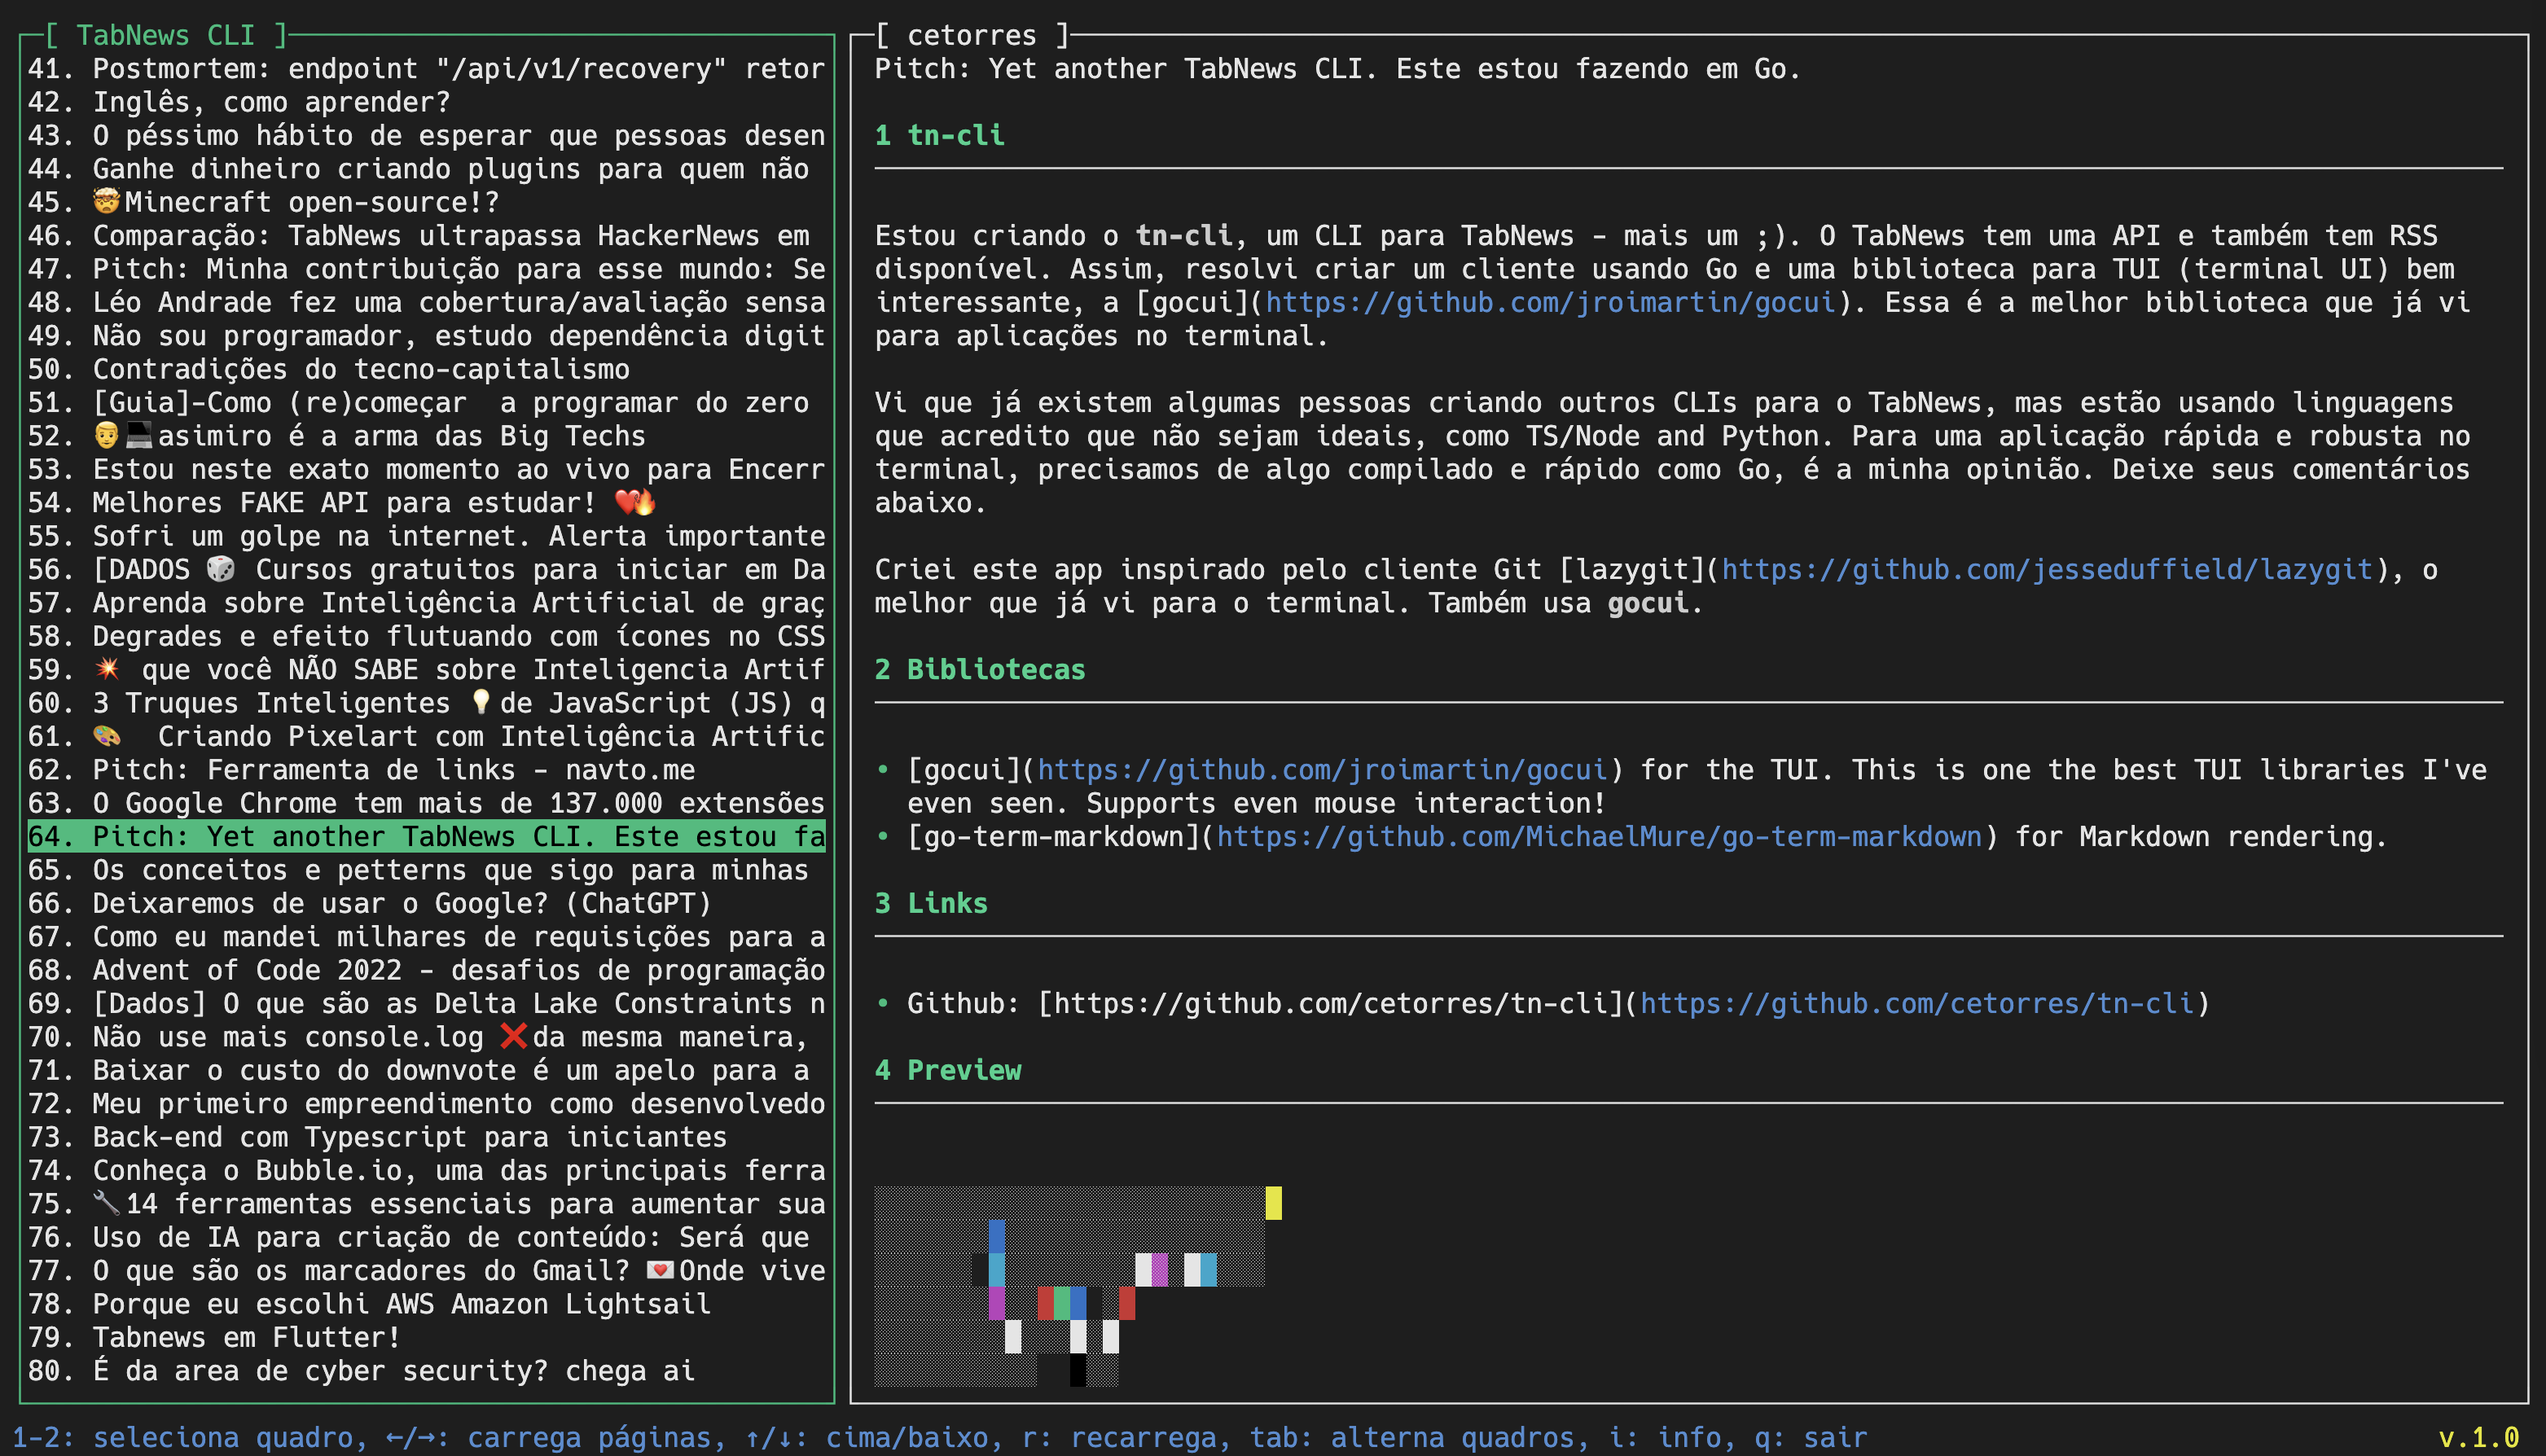
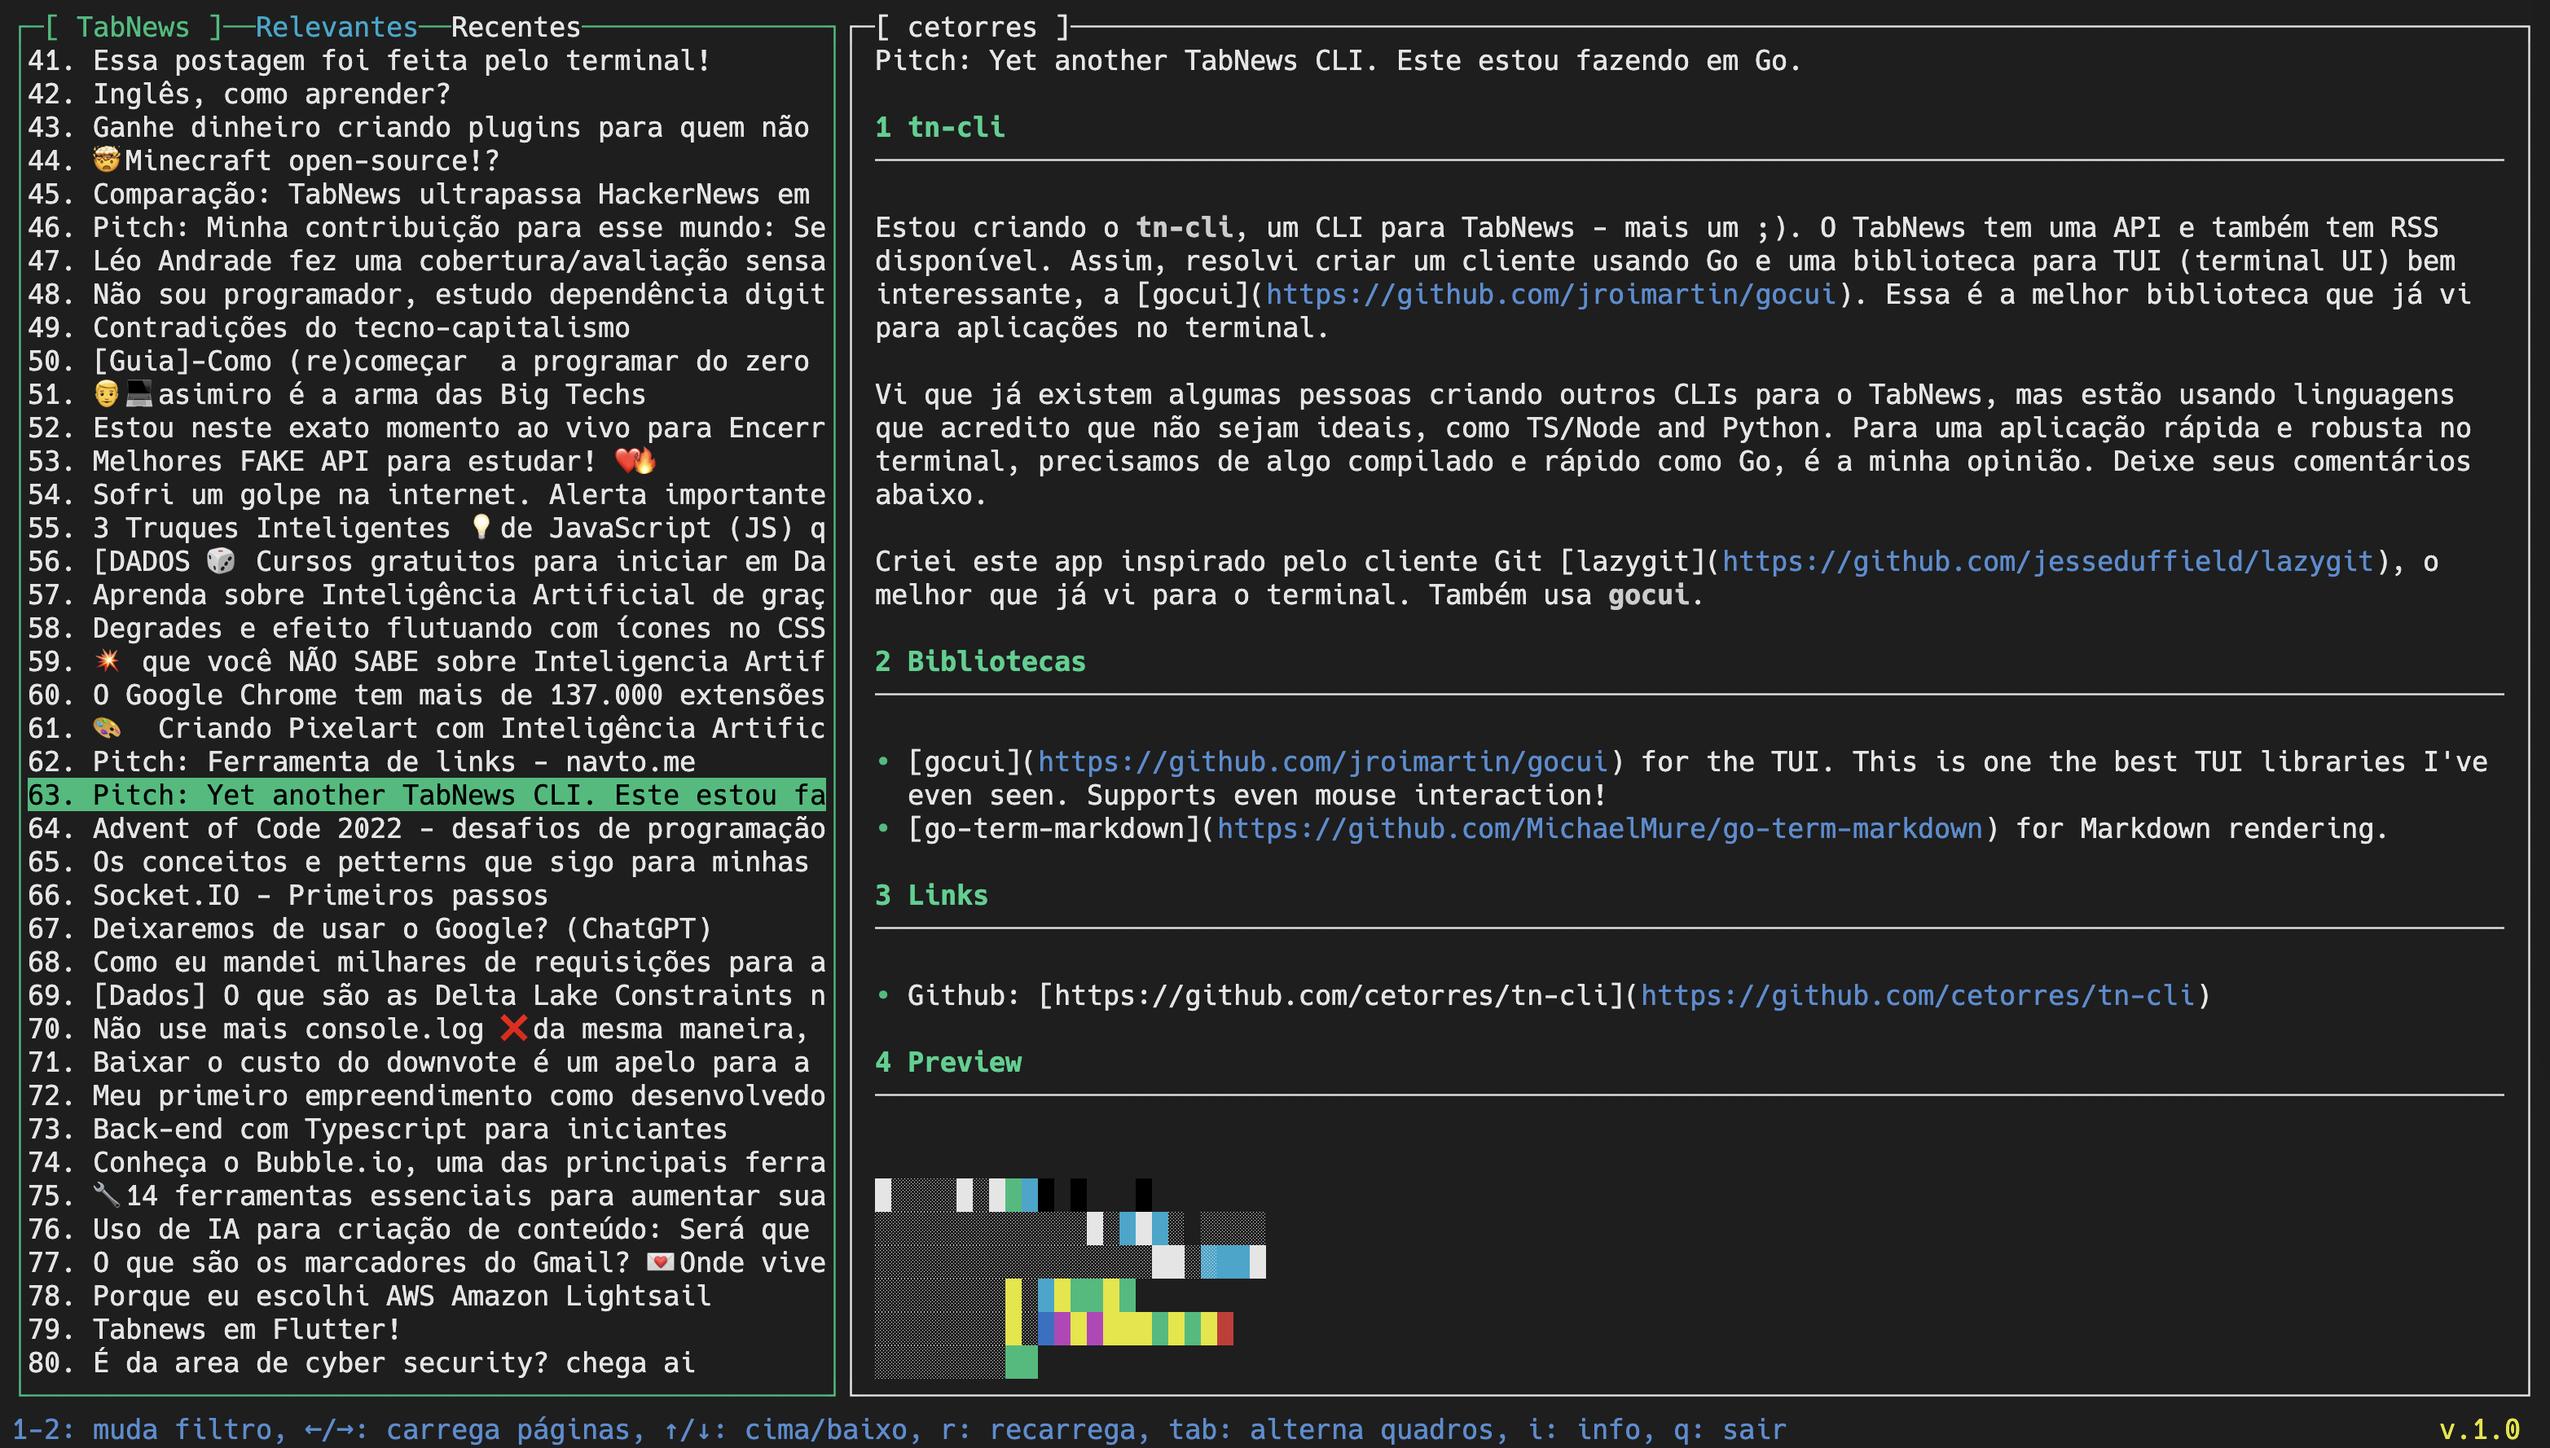
Added tab for Relevant and Recent

Changed region(s): [[0.0, 0.0, 0.993, 1.0], [0.9619, 0.9589, 0.993, 1.0]]

diff --git a/main.go b/main.go
@@ -11,7 +11,7 @@ import (
 )
 
 const (
-	APP_TITLE		   = "TabNews CLI"
+	APP_TITLE		   = "TabNews"
 	APP_VERSION    = "1.0"
 	APP_COPYRIGHT  = "(c) 2022 Carlos E. Torres"
 	APP_GITHUB		 = "https://github.com/cetorres/tn-cli"
@@ -19,9 +19,10 @@ const (
 	READER_VIEW		 = "reader"
 	BOTTOM_VIEW		 = "bottom"
 	VERSION_VIEW	 = "version"
-	READER_PADDING = 1
-	PAGE_SIZE			 = 40
-	BOTTOM_HELP	   = "1-2: seleciona quadro, ←/→: carrega páginas, ↑/↓: cima/baixo, r: recarrega, tab: alterna quadros, i: info, q: sair"
+	RECENT_ITEMS_VIEW = "recentitems"
+	RELEVANT_ITEMS_VIEW = "relevantitems"
+	READER_PADDING = 1	
+	BOTTOM_HELP	   = "1-2: muda filtro, ←/→: carrega páginas, ↑/↓: cima/baixo, r: recarrega, tab: alterna quadros, i: info, q: sair"
 	APP_LOGO			 = `
  _                    _ _ 
 | |_ _ __         ___| (_)
@@ -36,24 +37,14 @@ var (
 	active  = 0
 	contents = []Content{}
 	selected = 0
-	currentPage = 1
 	cachedContents = make(map[int][]Content)
 	cachedArticles = make(map[string]*Article)
 )
 
-func setCurrentViewOnTop(g *gocui.Gui, name string) (*gocui.View, error) {
-	if _, err := g.SetCurrentView(name); err != nil {
-		return nil, err
-	}
-	return g.SetViewOnTop(name)
-}
-
 func selectView(g *gocui.Gui, v *gocui.View, viewId int) error {
 	name := viewArr[viewId]
 
-	if _, err := setCurrentViewOnTop(g, name); err != nil {
-		return err
-	}
+	g.SetCurrentView(name)
 
 	if viewId == 0 {
 		g.Cursor = false
@@ -91,9 +82,7 @@ func layout(g *gocui.Gui) error {
 		v.Autoscroll = false
 		v.Wrap = false
 
-		if _, err = setCurrentViewOnTop(g, LIST_VIEW); err != nil {
-			return err
-		}
+		g.SetCurrentView(LIST_VIEW)
 
 		g.Update(func(g *gocui.Gui) error {
 			LoadList(g, v)
@@ -101,12 +90,34 @@ func layout(g *gocui.Gui) error {
 		})
 	}
 
+	// Setup new and relevant views (selectable)
+	if v, err := g.SetView(RELEVANT_ITEMS_VIEW, 14, -1, 25, 1); err != nil {
+		if err != gocui.ErrUnknownView {
+			return err
+		}
+		v.Wrap = false
+		v.Frame = false
+		v.Highlight = true
+		v.SelFgColor = gocui.ColorCyan
+		fmt.Fprintln(v, "Relevantes")
+	}
+	if v, err := g.SetView(RECENT_ITEMS_VIEW, 26, -1, 35, 1); err != nil {
+		if err != gocui.ErrUnknownView {
+			return err
+		}
+		v.Wrap = false
+		v.Frame = false
+		// v.Highlight = true
+		v.SelFgColor = gocui.ColorCyan
+		fmt.Fprintln(v, "Recentes")
+	}
+
 	// Set up reader view
 	if v, err := g.SetView(READER_VIEW, maxX/3, 0, maxX-1, maxY-2); err != nil {
 		if err != gocui.ErrUnknownView {
 			return err
 		}
-		v.Title = "[ ]"
+		v.Title = ""
 		v.Wrap = true
 		v.Autoscroll = false
 	}
@@ -169,7 +180,7 @@ func LoadList(g *gocui.Gui, v *gocui.View) error {
 
 	v2, _ := g.View(READER_VIEW)
 	v2.Clear()
-	v2.Title = "[ ]"
+	v2.Title = ""
 	fmt.Fprintln(v2, "Carregando...")
 
 	g.Update(func(g *gocui.Gui) error {
@@ -208,14 +219,10 @@ func LoadList(g *gocui.Gui, v *gocui.View) error {
 	return nil
 }
 
-func HandleClickVersion(g *gocui.Gui, v *gocui.View) error {
-	openbrowser(APP_GITHUB)
-	return nil
-}
-
 func LoadContent(g *gocui.Gui, v *gocui.View) error {
 	v2, _ := g.View(READER_VIEW)
 	v2.Clear()
+	fmt.Fprintln(v2, "Carregando...")
 
 	// View title (username)
 	v2.Title = "[ " + contents[selected].OwnerUsername + " ]"
@@ -225,14 +232,9 @@ func LoadContent(g *gocui.Gui, v *gocui.View) error {
 	opts := []markdown.Options{
 		// needed when going through gocui
 		markdown.WithImageDithering(markdown.DitheringWithBlocks),
-	}
+	}	
 
-	// Article title
-	result := markdown.Render(contents[selected].Title, maxX-READER_PADDING, READER_PADDING, opts...)
-	_, _ = v2.Write(result)
-	fmt.Fprintln(v2, "")
-
-	// Article body
+	// Load article
 	g.Update(func(g *gocui.Gui) error {
 		article, err := DownloadArticle(contents[selected].OwnerUsername, contents[selected].Slug, contents[selected].ID)
 
@@ -240,14 +242,73 @@ func LoadContent(g *gocui.Gui, v *gocui.View) error {
 			fmt.Fprintln(v2, "Não possível carregar artigo.")
 			return nil
 		}
+
+		v2.Clear()
+
+		// Article title
+		result1 := markdown.Render(contents[selected].Title, maxX-READER_PADDING, READER_PADDING, opts...)
+		_, _ = v2.Write(result1)
+		fmt.Fprintln(v2, "")
 		
-		result := markdown.Render(article.Body, maxX-READER_PADDING, READER_PADDING, opts...)
-		_, _ = v2.Write(result)
+		// Article body
+		result2 := markdown.Render(article.Body, maxX-READER_PADDING, READER_PADDING, opts...)
+		_, _ = v2.Write(result2)
 		return nil
 	})
 
 	v2.SetCursor(0, 0)
 	v2.SetOrigin(0, 0)
+	return nil
+}
+
+func LoadRelevant(g *gocui.Gui, v0 *gocui.View) error {
+	v, _ := g.View(LIST_VIEW)
+	v2, _ := g.View(RELEVANT_ITEMS_VIEW)
+	v3, _ := g.View(RECENT_ITEMS_VIEW)
+
+	// Select view
+	v2.Highlight = true
+	v3.Highlight = false
+
+	// Reset list view
+	cachedContents = make(map[int][]Content)
+	selected = 0
+	currentPage = 1
+	v.SetCursor(0, 0)
+	v.SetOrigin(0, 0)
+
+	// Load list
+	currentStrategy = "relevant"
+	LoadList(g, v)
+
+	return nil
+}
+
+func LoadRecent(g *gocui.Gui, v0 *gocui.View) error {
+	v, _ := g.View(LIST_VIEW)
+	v2, _ := g.View(RELEVANT_ITEMS_VIEW)
+	v3, _ := g.View(RECENT_ITEMS_VIEW)
+
+	// Select view
+	v2.Highlight = false
+	v3.Highlight = true
+
+	// Reset list view
+	cachedContents = make(map[int][]Content)
+	selected = 0
+	currentPage = 1
+	v.SetCursor(0, 0)
+	v.SetOrigin(0, 0)
+
+	// Load list
+	currentStrategy = "new"
+	LoadList(g, v)
+
+	return nil
+}
+
+func HandleClickVersion(g *gocui.Gui, v *gocui.View) error {
+	openbrowser(APP_GITHUB)
 	return nil
 }
 
@@ -365,7 +426,7 @@ func LoadNextPage(g *gocui.Gui, v *gocui.View) error {
 
 func ShowVersion() {
 	fmt.Println(APP_LOGO)
-	fmt.Println(APP_TITLE, APP_VERSION)
+	fmt.Println(APP_TITLE + " CLI", APP_VERSION)
 	fmt.Println(APP_COPYRIGHT)
 }
 
@@ -374,8 +435,10 @@ func ShowInfo(g *gocui.Gui, v *gocui.View) error {
 	v2.Clear()
 	v2.Title = "[ Info ]"
 
-	infoText := fmt.Sprintf("%s\n%s\n\n%s\n%s\n\n%s", 
+	infoText := fmt.Sprintf("%s\n%s\n%s\n%s\n\n%s\n%s\n\n%s", 
 		APP_LOGO,
+		APP_TITLE + " CLI",
+		"Versão " + APP_VERSION,
 		APP_COPYRIGHT, 
 		"Cliente de terminal para o website TabNews (https://tabnews.com.br).",
 		"Desenvolvido em Go, usando bibliotecas gocui e go-term-markdown.",
@@ -431,11 +494,11 @@ func main() {
 		log.Panicln(err)
 	}
 
-	if err := g.SetKeybinding("", '1', gocui.ModNone, selectListView); err != nil {
+	if err := g.SetKeybinding("", '1', gocui.ModNone, LoadRelevant); err != nil {
 		log.Panicln(err)
 	}
 
-	if err := g.SetKeybinding("", '2', gocui.ModNone, selectReaderView); err != nil {
+	if err := g.SetKeybinding("", '2', gocui.ModNone, LoadRecent); err != nil {
 		log.Panicln(err)
 	}
 
@@ -469,7 +532,15 @@ func main() {
 
 	if err := g.SetKeybinding(VERSION_VIEW, gocui.MouseLeft, gocui.ModNone, HandleClickVersion); err != nil {
 		log.Panicln(err)
-	}	
+	}
+	
+	if err := g.SetKeybinding(RELEVANT_ITEMS_VIEW, gocui.MouseLeft, gocui.ModNone, LoadRelevant); err != nil {
+		log.Panicln(err)
+	}
+
+	if err := g.SetKeybinding(RECENT_ITEMS_VIEW, gocui.MouseLeft, gocui.ModNone, LoadRecent); err != nil {
+		log.Panicln(err)
+	}
 
 	if err := g.MainLoop(); err != nil && err != gocui.ErrQuit {
 		log.Panicln(err)

diff --git a/api.go b/api.go
@@ -7,9 +7,14 @@ import (
 )
 
 const (
-	URL_RECENTS    = "https://www.tabnews.com.br/recentes/rss"
 	URL_API				 = "https://www.tabnews.com.br/api/v1"
 	URL_CONTENTS   = URL_API + "/contents"
+	PAGE_SIZE			 = 40
+)
+
+var (
+	currentPage = 1
+	currentStrategy = "relevant"
 )
 
 func DownloadContent() ([]Content, error) {
@@ -22,7 +27,7 @@ func DownloadContent() ([]Content, error) {
 	}
 
 	// Perform HTTP request to load results
-	resp, err := http.Get(fmt.Sprintf("%s%s%d%s%d", URL_CONTENTS, "?per_page=", PAGE_SIZE, "&page=", currentPage))
+	resp, err := http.Get(fmt.Sprintf("%s%s%d%s%d%s%s", URL_CONTENTS, "?per_page=", PAGE_SIZE, "&page=", currentPage, "&strategy=",  currentStrategy))
 
 	if err != nil {
 		return nil, err

diff --git a/README.md b/README.md
@@ -20,13 +20,12 @@ The project needs help with these items.
 - [x] Main interface created
 - [x] Accessing contents API
 - [x] Load TabNews **recents** posts via API
+- [x] Load TabNews **relevant** posts via API
 - [x] Show articles list on the left side view
 - [x] Show article content on the right side reader view
 - [x] Load article pages with arrows
 - [x] Caching loaded data for faster access
 - [x] Fix known bug on the left side list scroll
-- [ ] Load TabNews **relevant** posts RSS feed and add a new tab to the left side view.
-- [ ] Hide/show left side view for better reading in full screen
 - [x] Show a bottom line with available commands and app version
 - [x] Improve the reader view to show contents better, with `markdown` and links.
 - [ ] Add your feature to the list...
@@ -40,8 +39,8 @@ The project needs help with these items.
 | Scroll Up | <kbd>↑</kbd> |
 | Scroll Down | <kbd>↓</kbd> |
 | Toggle Views | <kbd>tab</kbd> |
-| Select List View | <kbd>1</kbd> |
-| Select Reader View | <kbd>2</kbd> |
+| Change to Relevant | <kbd>1</kbd> |
+| Change to Recent | <kbd>2</kbd> |
 | Next Page | <kbd>→</kbd> |
 | Previous Page | <kbd>←</kbd> |
 
